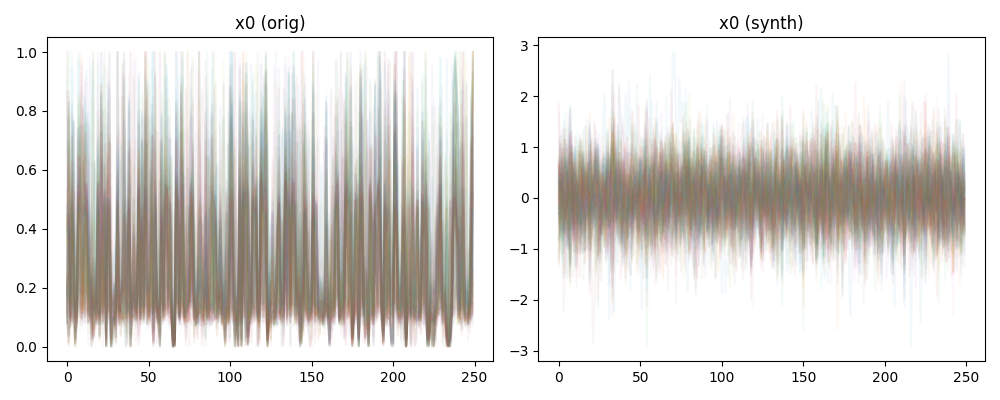
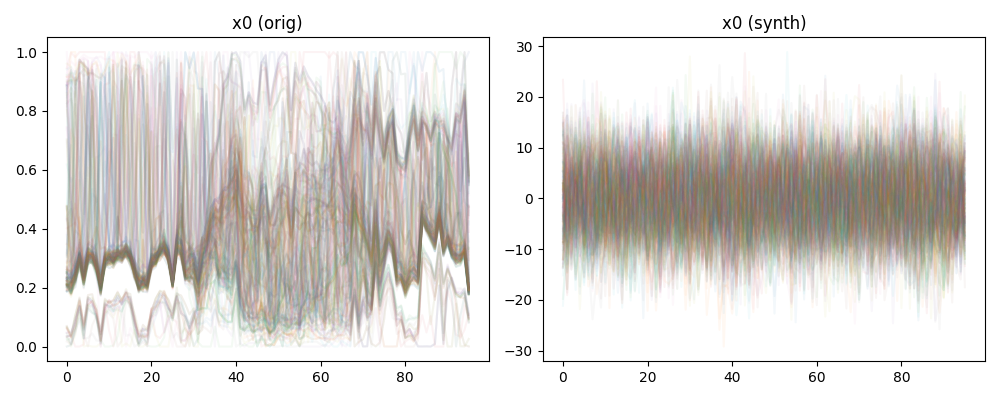
add c ddpm

diff --git a/exp/exp_second_round/conditional_generativemodels/ddpm_train.py b/exp/exp_second_round/conditional_generativemodels/ddpm_train.py
@@ -20,28 +20,31 @@ import asset.random_sampler as rs
 
 # ----------------------------
 # Import your DDPM module
-# must provide: FFD_NL, prepare_buffers, forward_diffusion_sample, sample_from_noise
+# (must provide: FFD_NL, linear_beta_schedule, training, sampling)
 # ----------------------------
-import ddpm_model as ddpm  # <- you said to use: import ddpm
+import ddpm_model as ddpm
+
 
 def main():
     # ===== Config =====
     batch_size        = 32
     split_ratio       = (0.8, 0.1, 0.1)
     data_path         = 'exp/data_process_for_data_collection_all/new_data_15minute_grid_nomerge.pkl'
-    save_dir          = 'exp/exp_second_round/conditional_generativemodels'
-    os.makedirs(save_dir, exist_ok=True)
+    save_dir_root     = 'exp/exp_second_round/conditional_generativemodels'
 
     # model/data shapes
     N, L              = 250, 96        # (channels, length)
     random_sample_num = 32             # condition channels N'
-    T                 = 300         # diffusion steps
+    T                 = 300            # diffusion steps
     hidden_channels   = 24             # model hidden channels
     lr                = 2e-4
     weight_decay      = 1e-4
     max_iters         = 100000
     log_every         = 200
-    sample_steps      = T             # fast sampler preview; for best quality use None
+
+    # I/O
+    subdir = os.path.join(save_dir_root, f'{random_sample_num}shot')
+    os.makedirs(subdir, exist_ok=True)
 
     device = torch.device('cuda' if torch.cuda.is_available() else 'cpu')
     torch.manual_seed(0)
@@ -59,11 +62,13 @@ def main():
     print('length of test  data: ', int(len(dataset) * split_ratio[1]))
 
     # ===== Model & Opt =====
+    betas = ddpm.linear_beta_schedule(T)  # length-T schedule
     model = ddpm.FFD_NL(
         in_channels=N,
         hidden_channels=hidden_channels,
         condition_channels=random_sample_num,
-        t_max=T
+        t_max=T,
+        betas=betas
     ).to(device)
 
     opt = optim.AdamW(model.parameters(), lr=lr, weight_decay=weight_decay)
@@ -71,40 +76,44 @@ def main():
     n_params = sum(p.numel() for p in model.parameters() if p.requires_grad)
     print('amount of model parameters:', n_params)
 
-    # ===== Schedules =====
-    buf = ddpm.prepare_buffers(T, device)
-    sqrt_a_bar = buf["a_bar"].sqrt()
-    sqrt_one_minus_a_bar = (1.0 - buf["a_bar"]).sqrt()
+    # ===== Precompute (on device) =====
+    # (buffers are already on device; just cache square-roots for training)
+    cum_alpha_sqrt = model.cumprod_alphas.sqrt()
+    cum_one_minus_alpha_sqrt = (1.0 - model.cumprod_alphas).sqrt()
 
     best_loss = float('inf')
-    ckpt_path = os.path.join(save_dir, f'{random_sample_num}shot/ddpm_{n_params}_{random_sample_num}shot.pt')
+    ckpt_path = os.path.join(subdir, f'ddpm_{n_params}_{random_sample_num}shot.pt')
 
     # ===== Training loop =====
     it = 0
     while it < max_iters:
-        # 1) Load a training batch (shape: (B, N, L+1)? your VAE trims last step)
-        train_sample = dataset.load_train_data()            # numpy
+        # 1) Load a training batch -> (B, N, L+1)? (your VAE trims last step)
+        train_sample = dataset.load_train_data()                       # numpy
         train_sample = torch.tensor(train_sample, dtype=torch.float32, device=device)
-        train_sample = train_sample[:, :, :-1]              # match your VAE: drop last time step -> (B, N, L)
+        train_sample = train_sample[:, :, :-1]                         # drop last step -> (B, N, L)
+        assert train_sample.shape[1] == N and train_sample.shape[2] == L, \
+            f"Got {train_sample.shape}, expected (B,{N},{L}) after trimming."
 
         # 2) Min-max normalize channel-wise per sample
         _min, _ = train_sample.min(dim=1, keepdim=True)
         _max, _ = train_sample.max(dim=1, keepdim=True)
-        x0 = (train_sample - _min) / (_max - _min + 1e-15)  # (B, N, L)
+        x0 = (train_sample - _min) / (_max - _min + 1e-15)             # (B, N, L)
 
         # 3) Build condition: randomly sample N' channels (and same L)
         cond = rs.random_sample(x0, 'random', random_sample_num).to(device)  # (B, N', L)
+        assert cond.shape[1] == random_sample_num and cond.shape[2] == L
 
         B = x0.size(0)
 
         # 4) One optimization step on randomly sampled timesteps
-        t = torch.randint(0, T, (B,), device=device)
-        x_t, noise = ddpm.forward_diffusion_sample(x0, t, sqrt_a_bar, sqrt_one_minus_a_bar)
-        eps_pred = model(x_t, t, cond=cond)
-        loss = F.mse_loss(eps_pred, noise)
+        t = torch.randint(0, T, (B,), device=device, dtype=torch.long)       # (B,)
+        # use training() from the ddpm module (computes eps, forward-noise, MSE)
+        loss = ddpm.training(model, x0, t, cum_alpha_sqrt, cum_one_minus_alpha_sqrt, cond=cond)
 
         opt.zero_grad(set_to_none=True)
         loss.backward()
+        # (optional) gradient clipping for stability
+        torch.nn.utils.clip_grad_norm_(model.parameters(), max_norm=1.0)
         opt.step()
 
         # 5) Logs, sampling preview, checkpointing
@@ -112,31 +121,26 @@ def main():
             print(f"iter {it} | loss {loss.item():.6f}")
 
             with torch.no_grad():
-                # quick preview sampling conditioned on same cond
-                samples = ddpm.sample_from_noise(
-                    model, cond, N=N, L=L, T=T,
-                    steps=sample_steps, device=device, clip=(-3, 3)
-                )  # (B, N, L)
+                # sampling() from ddpm module (starts from noise, uses model+cond)
+                samples = ddpm.sampling(model, cond)  # (B, N, L)
 
-            # plot first sample
+            # plot the first sample (many lines; faint alpha)
             fig = plt.figure(figsize=(10, 4))
             i = 0
-            # print("x0[i].shape:", x0[i].shape)
             plt.subplot(1, 2, 1)
-            plt.plot(x0[i].detach().cpu(), alpha=0.05)
+            plt.plot(x0[i].detach().cpu().T, alpha=0.05)
             plt.title("x0 (orig)")
             plt.subplot(1, 2, 2)
-            plt.plot(samples[i].detach().cpu(), alpha=0.05)
+            plt.plot(samples[i].detach().cpu().T, alpha=0.05)
             plt.title("x0 (synth)")
             plt.tight_layout()
-            fig_path = os.path.join(save_dir, f'{random_sample_num}shot/preview_iter.png')
+            fig_path = os.path.join(subdir, 'preview_iter.png')
             plt.savefig(fig_path)
             plt.close(fig)
 
             # checkpoint best loss
             if loss.item() < best_loss:
                 best_loss = loss.item()
-                # save model
                 torch.save(model.state_dict(), ckpt_path)
                 print("New best model saved.")
 
@@ -144,6 +148,7 @@ def main():
 
     print("Training finished. Best loss:", best_loss)
     print("Checkpoint saved to:", ckpt_path)
+
 
 if __name__ == "__main__":
     main()
